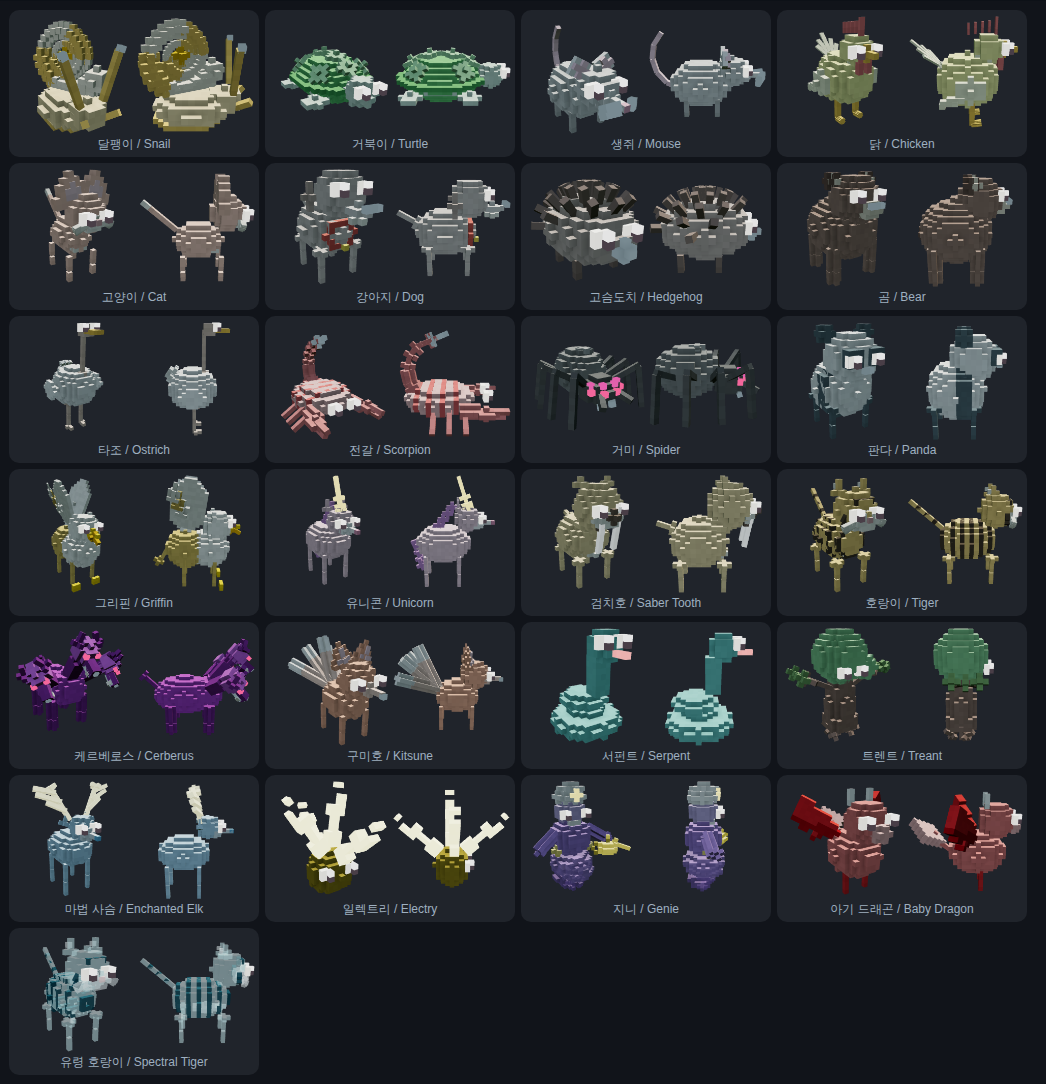
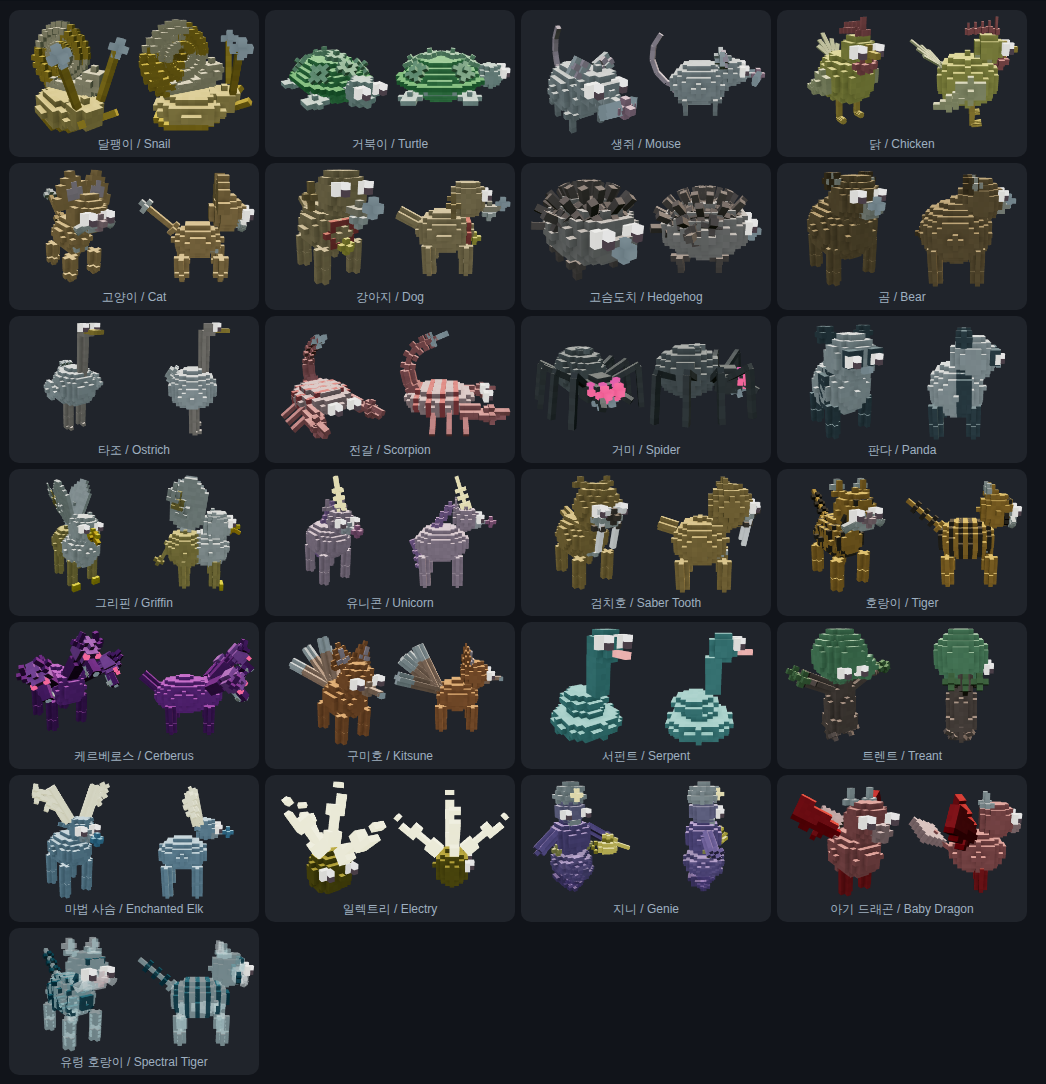
펫 종별 몸색 채도 상향 — 파스텔이 복셀 AO 아래 회탁색으로 씻기던 것 되살림 (리버본드 생생한 색)
비평가 2인 공통 최상위 감점(3·4점) '죄다 회색/탄 mud·종 구별 안 됨'. 원인은 PET_COLORS 라이트 파스텔값(호랑이 0xffb74d·구미호 0xff8a65·그리핀 0xffe082 등)이 복셀 AO+어두운 조명에서 중간 회색으로 죽은 것. 종 자연색을 채도 올려 되살림:
- 호랑이 → 선명 주황 0xf5801c·구미호(여우) → 주황 0xe85e26·고양이 → 주황 태비 0xe38b3e·강아지 → 탄 0xc98f4e·검치호 → 토니 0xd98a34·그리핀 → 이글골드 0xe0a828·곰 → 진갈 0x8a5a2e·달팽이 → 앰버 0xf0a83c·닭 → 진노랑 0xf2ce3a·유니콘 살짝 채도업.
- 생쥐·판다·타조·거미 등 원래 무채색 종은 불변(probe-pet-thumbs ④ 가 무채색 종을 저채도로 통과시킴).
- 검증: probe-pet-thumbs ④(썸네일 색=재질색) PASS. ⑤ Serpent(Δ밝기 39) FAIL 은 **내 변경 전에도 동일**(stash 실측 39.4)한 선재 결함 — 안 건드린 청록 종이고 프로브 주석이 self-shadow Δ밝기 39 로 이미 문서화. 지오메트리 무변경.

(pet-riverbond-remake)

diff --git a/web/js/gamedata.js b/web/js/gamedata.js
@@ -529,11 +529,18 @@ const PET_KR = {
     'Genie': '지니', 'Baby Dragon': '아기 드래곤', 'Spectral Tiger': '유령 호랑이'
 };
 
+// 🎨 종별 몸색 — 리버본드 '생생한 색' (pet-riverbond-remake 채도 상향, 2026-08-21).
+// 🚨 **왜 상향인가**: 파스텔 라이트값(호랑이 0xffb74d·구미호 0xff8a65·그리핀 0xffe082 등)이 복셀 AO +
+//    어두운 조명 아래에서 **중간 회탁색으로 씻겨** 나가, 비평가 2인이 공통 최상위 감점으로 "죄다 회색/탄
+//    mud, 종 구별 안 됨"(3·4점)을 짚었다. 호랑이=선명 주황·구미호(여우)=주황 처럼 **종 자연색을 채도
+//    올려** 되살린다. 생쥐·판다·타조·거미처럼 원래 무채색인 종은 그대로 둔다(probe-pet-thumbs ④ 는
+//    무채색 종을 저채도로 통과시키므로 건드리면 안 된다). 색상각은 ±40° 안(재질색↔썸네일 동반 이동)이라
+//    프로브 불변, 지오메트리 무변경.
 const PET_COLORS = {
-    'Snail': 0xffcc80, 'Turtle': 0x81c784, 'Mouse': 0xbdbdbd, 'Chicken': 0xfff176, 'Cat': 0xffab91, 'Dog': 0xbcaaa4,
-    'Hedgehog': 0x8d6e63, 'Bear': 0x795548, 'Ostrich': 0xe0e0e0, 'Scorpion': 0xef9a9a, 'Spider': 0x616161,
-    'Panda': 0xeeeeee, 'Griffin': 0xffe082, 'Unicorn': 0xf8bbd0, 'Saber Tooth': 0xffcc80, 'Tiger': 0xffb74d,
-    'Cerberus': 0x8e24aa, 'Kitsune': 0xff8a65, 'Serpent': 0x4db6ac,
+    'Snail': 0xf0a83c, 'Turtle': 0x81c784, 'Mouse': 0xbdbdbd, 'Chicken': 0xf2ce3a, 'Cat': 0xe38b3e, 'Dog': 0xc98f4e,
+    'Hedgehog': 0x8d6e63, 'Bear': 0x8a5a2e, 'Ostrich': 0xe0e0e0, 'Scorpion': 0xef9a9a, 'Spider': 0x616161,
+    'Panda': 0xeeeeee, 'Griffin': 0xe0a828, 'Unicorn': 0xf6a8cc, 'Saber Tooth': 0xd98a34, 'Tiger': 0xf5801c,
+    'Cerberus': 0x8e24aa, 'Kitsune': 0xe85e26, 'Serpent': 0x4db6ac,
     'Treant': 0x66bb6a, 'Enchanted Elk': 0x90caf9, 'Electry': 0xfff59d,
     'Genie': 0x7e57c2, 'Baby Dragon': 0xef5350, 'Spectral Tiger': 0x80deea
 };
